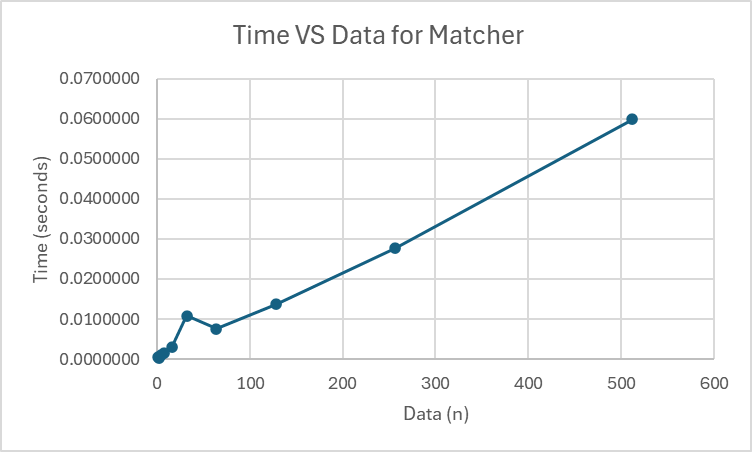
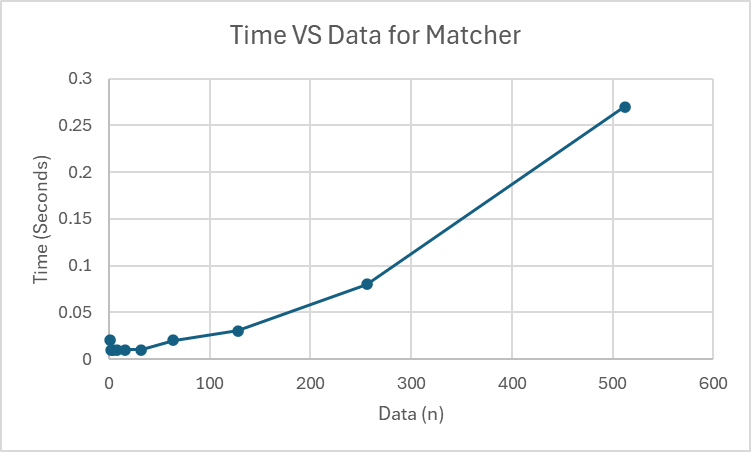
Added graphs and explanation for part C

diff --git a/README.md b/README.md
@@ -64,11 +64,10 @@ make scale-verifier
 
 We analyzed the performance of the Matcher and Verifier by measuring execution time against the number of participants ($n$).
 
-
-
-
-
-
-
 ---
 ![Time VS Data Graph For Matcher Function](read_me_files/image.png)
+
+![Time VS Data Graph For Verifier Function](read_me_files/image2.png)
+
+From the graphs above, we can see that as the number of hospitals and students increases, the running time of the algorithm seems to grow quadratically. This means that the functions we wrote for both the matcher and verifier run in $O(n^2)$ time complexity. By looking at the algorithm this makes sense as we have 2 different for-loops, that at worst check every single element in both preference lists which would be $O(n \cdot n)=O(n^2)$. Overall, the graphs are a great representation of the time complexity of our algorithms. 
+
